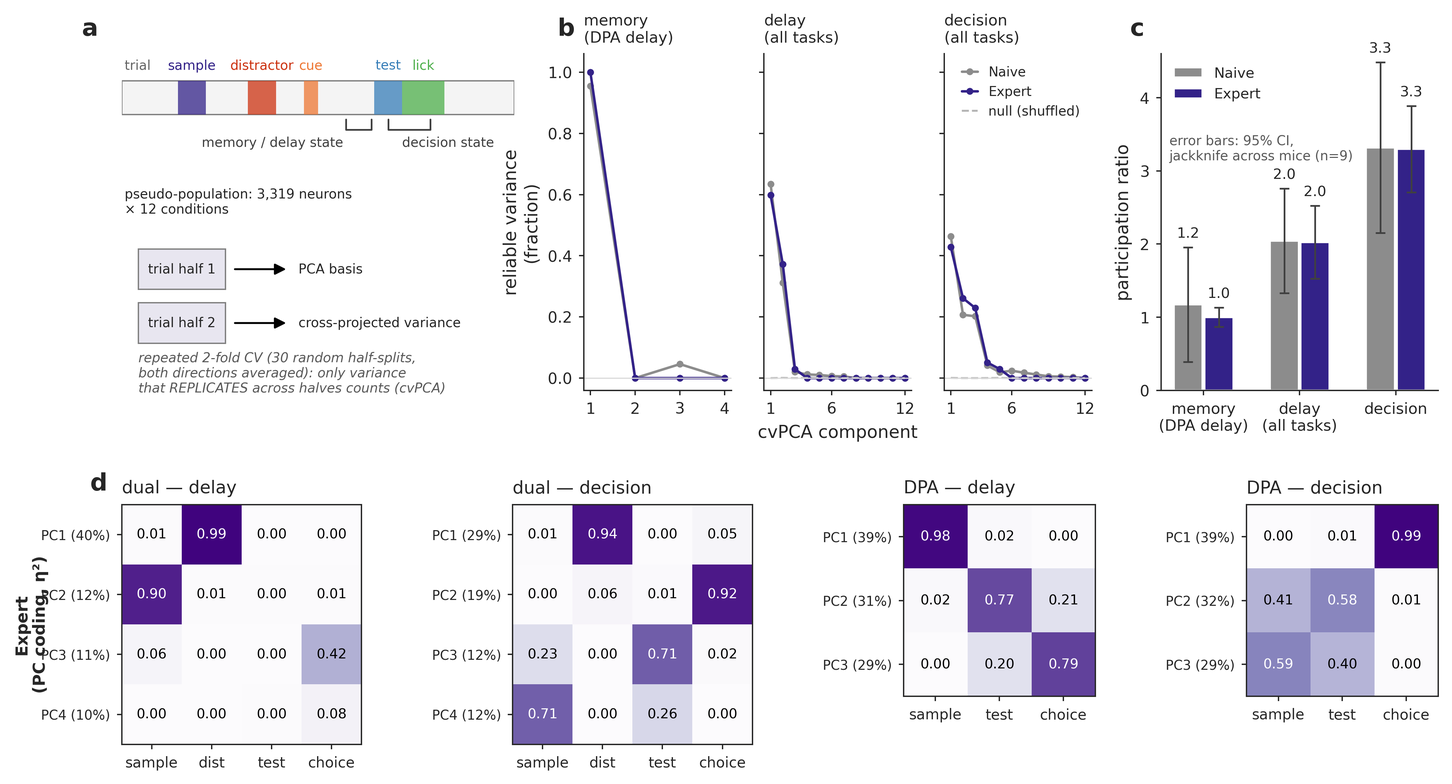
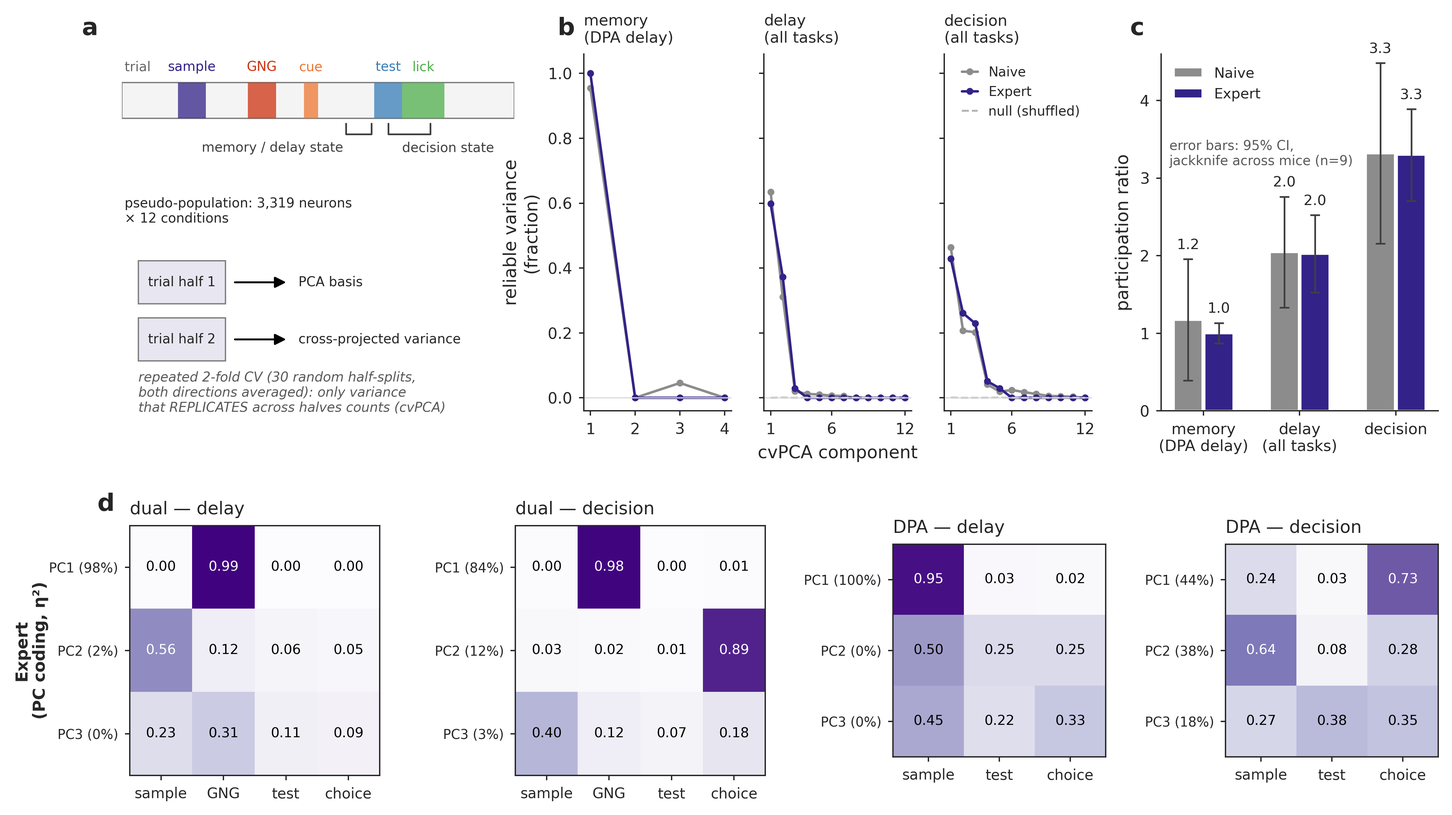
Fig 2d is cross-validated: components fitted on one trial half, eta^2 read on the other
Panel d used to PCA the condition means estimated from ALL trials, so its row
percentages were raw condition-mean variance and appeared to contradict panel b:
the DPA delay read 41/30/28% with coded-looking second and third rows, while b's
cross-validated spectrum said one axis (1.00/0/0).

New pca/exp_pceta_cv.py runs the same half-splits as b (30 x both directions),
fits the components on one half and measures BOTH the replicating variance and
the eta^2 on the other, merging pceta_cv / cm_var_cv / pceta_cv_factors /
pceta_cv_permfrac into all 22 FITDATA entries of results.pkl. panelD_mats
prefers those keys and falls back to the raw ones.

Row labels are now panel b's reliable fractions (DPA md 100/0/0, DPA decision
44/38/18, dual md 92/7/0, dual decision 84/12/3); the reliable rows keep their
coding (sample .94; GNG .99; choice .73 DPA / .89 dual; sample .81 dual md) and
the non-replicating rows go flat at the 1/3 chance level.

Trap found and fixed: the DPA decision components sit at 0.44/0.38, so they swap
order between splits and unmatched averaging blended the choice row into the
sample row (0.67 choice + 0.30 sample against 0.57 sample + 0.35 choice). Each
split's components are now matched to the full-data axes by maximum |cosine|
(Hungarian) before averaging; the reference only labels components and enters
neither the fit nor the measurement.

Also: _rank_b's docstring was quoting pre-flip margins and claiming dual-decision
[…]

diff --git a/pca/exp_pceta_cv.py b/pca/exp_pceta_cv.py
@@ -1,0 +1,162 @@
+"""exp_pceta_cv.py — CROSS-VALIDATED version of Fig 2d (Leon 2026-09-09: "we should cross validate panel d").
+
+Panel d used to PCA the condition means computed from ALL trials, so its per-PC percentages counted the
+noise in those means: at the DPA mid-delay it reported PC1 39% / PC2 31% / PC3 29% — three comparable axes —
+while the cross-validated spectrum of panel b said one (1.00 / 0 / 0). Same data, different question.
+
+Here each component is FIT ON ONE TRIAL HALF and MEASURED ON THE OTHER, exactly like the panel-b spectrum:
+
+    for each of NSPLIT random half-splits, and in both directions:
+        S1, S2  = z-scored, centred condition means of the two disjoint halves
+        Vt      = right singular vectors of S1            (the basis comes from half 1 only)
+        cross-variance_k = <S1 Vt_k , S2 Vt_k>            (noise does not replicate → ~0)
+        eta2_k          = eta² of the HELD-OUT scores S2 Vt_k against the design contrasts
+
+COMPONENT MATCHING (essential — without it the DPA decision matrix is mush). Splits are averaged
+componentwise, so the k-th component must mean the same thing in every split. When two components
+carry nearly equal variance their ORDER is arbitrary: the DPA decision spectrum is 0.41 / 0.40 / 0.18,
+so its first two swap from split to split, and naive averaging blends the choice PC with the sample PC
+(PC1 came out 0.67 choice + 0.30 sample, PC2 0.57 sample + 0.35 choice — the two raw rows, mixed in
+proportion to how often they swapped). Each split's components are therefore matched to a fixed
+reference basis (the full-data PCs of the same normalised condition means) by maximum |cosine|,
+with a Hungarian assignment, BEFORE accumulating. The reference only labels the components; it
+never enters the fit or the measurement, both of which stay strictly out-of-sample. Matching is a
+permutation of the same top-k set, so the variance fractions are unchanged as a multiset and still
+reproduce panel b.
+
+Averaged over splits and directions. Writes into each FITDATA entry of results.pkl:
+    pceta_cv   (nk × factors)  cross-validated coding matrix, the panel-d cells
+    cm_var_cv  (nk,)           cross-validated variance fractions, the panel-d row labels
+The uncross-validated `pceta` / `cm_var` stay in place so nothing that reads them breaks.
+
+Run from pca/:  /home/leon/mambaforge/envs/dual/bin/python exp_pceta_cv.py
+"""
+import os
+import pickle
+import sys
+
+import numpy as np
+from scipy.optimize import linear_sum_assignment
+
+sys.path.insert(0, '/home/leon/dual/')
+os.chdir(os.path.dirname(os.path.abspath(__file__)))
+
+NSPLIT = 30
+RES = 'figures/pseudo/dimensionality/results.pkl'
+AWPKL = 'figures/pseudo/dimensionality/fits_inputs.pkl'
+STAGES = ['Naive', 'Expert']
+TASKS3 = ['DPA', 'DualGo', 'DualNoGo']
+ALL12 = [(t, s, te) for t in TASKS3 for s in (0, 1) for te in (0, 1)]
+TASKSETS = {'DPA': [c for c in ALL12 if c[0] == 'DPA'],
+            'dual': [c for c in ALL12 if c[0] != 'DPA'],
+            'all': ALL12}
+
+_c = pickle.load(open(AWPKL, 'rb'))
+AW, VALIDIX, N = _c['AW'], _c['VALIDIX'], _c['N']
+MOUSE, LEARN, LAS, TSK, SAMP, TESTO, PERF = (_c['L'][k] for k in
+                                             ['MOUSE', 'LEARN', 'LAS', 'TSK', 'SAMP', 'TESTO', 'PERF'])
+MICE = sorted({m for m, _ in VALIDIX})
+
+
+def contrasts(conds):
+    """orthogonal ±1 factor contrasts — identical to exp_dimensionality_fits.contrasts."""
+    s = np.array([c[1] for c in conds], float); te = np.array([c[2] for c in conds], float)
+    tk = np.array([TASKS3.index(c[0]) for c in conds])
+    C = {'sample': 2 * s - 1, 'test': 2 * te - 1, 'choice': 2 * (s == te) - 1}
+    has_dual = bool(np.any((tk == 1) | (tk == 2))); has_dpa = bool(np.any(tk == 0))
+    order = ['sample']
+    if has_dual:
+        C['gng'] = np.select([tk == 1, tk == 2], [1.0, -1.0], default=0.0); order.append('gng')
+    order += ['test', 'choice']
+    if has_dpa and has_dual:
+        C['tasks'] = np.select([tk == 0, tk == 1, tk == 2], [2.0, -1.0, -1.0]); order.append('tasks')
+    return C, order
+
+
+def eta2(zk, C, order):
+    zc = zk - zk.mean(); sst = (zc ** 2).sum() + 1e-12
+    return [(C[f] @ zc) ** 2 / ((C[f] @ C[f]) * sst) for f in order]
+
+
+def neuron_scale(stage, M):
+    sd = np.ones(N)
+    for m in MICE:
+        val = VALIDIX[(m, stage)]; tr = np.where((MOUSE == m) & (LEARN == stage) & (LAS == 0) & (PERF == 1))[0]
+        if len(tr):
+            s = np.nanstd(M[np.ix_(tr, val)], axis=0)
+            sd[val] = np.where(np.isfinite(s) & (s > 1e-6), s, 1.0)
+    return sd
+
+
+def split_means(stage, conds, M, rng):
+    R1 = np.zeros((len(conds), N)); R2 = np.zeros((len(conds), N))
+    for m in MICE:
+        val = VALIDIX[(m, stage)]
+        for ci, (t, s, te) in enumerate(conds):
+            idx = np.where((MOUSE == m) & (LEARN == stage) & (LAS == 0) & (PERF == 1)
+                           & (TSK == t) & (SAMP == s) & (TESTO == te))[0]
+            if len(idx) < 2:
+                continue
+            p = rng.permutation(idx); h = len(p) // 2
+            R1[ci][val] = np.nanmean(M[np.ix_(p[:h], val)], 0); R2[ci][val] = np.nanmean(M[np.ix_(p[h:], val)], 0)
+    return R1, R2
+
+
+def ref_basis(stage, conds, M, nk):
+    """LABELLING basis only: the full-data PCs of the same normalised condition means."""
+    sd = neuron_scale(stage, M)
+    R = np.zeros((len(conds), N))
+    for m in MICE:
+        val = VALIDIX[(m, stage)]
+        for ci, (t, s, te) in enumerate(conds):
+            idx = np.where((MOUSE == m) & (LEARN == stage) & (LAS == 0) & (PERF == 1)
+                           & (TSK == t) & (SAMP == s) & (TESTO == te))[0]
+            if len(idx):
+                R[ci][val] = np.nanmean(M[np.ix_(idx, val)], 0)
+    S = R / sd[None, :]; S = S - S.mean(0, keepdims=True)
+    return np.linalg.svd(S, full_matrices=False)[2][:nk]
+
+
+def cv_pc(stage, conds, M, C, order, nk):
+    """cross-validated (variance fraction, eta² matrix): basis from one half, both read on the other,
+    components matched to a fixed reference so that averaging across splits compares like with like."""
+    sd = neuron_scale(stage, M); rng = np.random.RandomState(0)
+    Vref = ref_basis(stage, conds, M, nk)
+    var = np.zeros(nk); eta = np.zeros((nk, len(order))); n = 0; nperm = 0
+    for _ in range(NSPLIT):
+        R1, R2 = split_means(stage, conds, M, rng)
+        S1, S2 = R1 / sd[None, :], R2 / sd[None, :]
+        S1 = S1 - S1.mean(0, keepdims=True); S2 = S2 - S2.mean(0, keepdims=True)
+        for A, B in ((S1, S2), (S2, S1)):                       # both directions, as in cvpca_spectrum
+            Vt = np.linalg.svd(A, full_matrices=False)[2][:nk]
+            ri, ci = linear_sum_assignment(-np.abs(Vref @ Vt.T))  # ref slot ri <- fitted component ci
+            nperm += int(not np.array_equal(ci, np.arange(nk)))
+            ZA, ZB = A @ Vt.T, B @ Vt.T                          # scores of the fit half and the held-out half
+            var[ri] += (ZA[:, ci] * ZB[:, ci]).sum(0)            # replicating variance per component
+            for r, c in zip(ri, ci):
+                eta[r] += eta2(ZB[:, c], C, order)               # coding measured on the HELD-OUT half
+            n += 1
+    pos = np.clip(var / n, 0, None)
+    return pos / (pos.sum() + 1e-12), eta / n, nperm / n
+
+
+d = pickle.load(open(RES, 'rb'))
+F = d['FITDATA']
+print(f'{"set":5s}{"window":10s}{"stage":7s}{"raw %":24s}{"cross-validated %":24s}{"perm":5s}  top factor per PC')
+for tsname, conds in TASKSETS.items():
+    C, order = contrasts(conds); nk = len(conds) - 1
+    for wn, M in AW.items():
+        for stage in STAGES:
+            key = (tsname, wn, stage)
+            if key not in F:
+                continue
+            cmv, pce, fperm = cv_pc(stage, conds, M, C, order, nk)
+            F[key]['cm_var_cv'] = cmv; F[key]['pceta_cv'] = pce; F[key]['pceta_cv_factors'] = order
+            F[key]['pceta_cv_permfrac'] = fperm
+            if wn in ('md', 'decision') and stage == 'Expert' and tsname != 'all':
+                raw = np.asarray(F[key]['cm_var'], float)[:3]
+                top = [f'{order[int(np.argmax(pce[k]))]} {pce[k].max():.2f}' for k in range(min(3, nk))]
+                print(f'{tsname:5s}{wn:10s}{stage:7s}{str([f"{v:.0%}" for v in raw]):24s}'
+                      f'{str([f"{v:.0%}" for v in cmv[:3]]):24s}{fperm:5.2f}  {top}')
+pickle.dump(d, open(RES, 'wb'))
+print(f'\nmerged pceta_cv / cm_var_cv into {RES} ({NSPLIT} splits × 2 directions)')

diff --git a/pca/fig_dimensionality_main.py b/pca/fig_dimensionality_main.py
@@ -9,9 +9,12 @@ DPA vs dual (x) mid-delay vs decision. Three claims:
      existence metric (Kobak et al. 2016), replacing the variance-weighted PR bars. Each stage is
      drawn against ITS OWN null (Expert solid, Naive dashed); the dist-cross verdict uses the
      1000-draw permutation null (2026-08-30; at 100 draws the margin was seed-flippable).
-  3. D eta^2 PC-coding matrices (Expert; DPA then dual, PC1-4 both) + the boxed 'dist x' cross-decode
+  3. D CROSS-VALIDATED eta^2 PC-coding matrices (Expert; DPA then dual) + the boxed 'dist x' cross-decode
      column on DPA: the axes ARE the variables; the DPA geometry carries the GNG code only
-     weakly. Naive overlaid in B/C; Naive matrices identical (Extended Data). Row fade rank =
+     weakly. Since 2026-09-09 the basis is fit on one trial half and the eta^2 AND the row-label
+     percentages are read on the other (exp_pceta_cv.py -> pceta_cv / cm_var_cv), so the labels ARE
+     panel b's reliable fractions and non-replicating rows go flat (~1/nfactor) instead of looking
+     coded. Naive overlaid in B/C; Naive matrices identical (Extended Data). Row fade rank =
      cumulative-95%-of-reliable-variance rule (see _rank_b). NB the dual eta^2 rows do NOT sum to 1
      exactly (4 of 7 centred contrasts shown; dual-md PC2 leaks ~6% to unshown interactions) —
      caption must not claim they do. Display names are canonical sample/dist/test/choice ('gng'
@@ -323,10 +326,14 @@ def _rank_b(ts, wn):
     passed by lo=0.012 vs the 1% constant, and switching the CI multiplier from z=1.96 to the
     t8=2.306 appropriate for n=9 flipped dual-md to rank 1 and collapsed DPA-decision 3->1 (its
     comp2 CI spans 0 while comp3 is solidly reliable — stop-at-first-failure). The cumulative rule
-    reproduces the same displayed ranks (DPA-md 1, DPA-dec 3, dual-md 2, dual-dec 3) with the CI
-    multiplier out of the decision entirely; margins: dual-md cum1=0.924 < 0.95 < cum2=0.995,
-    dual-dec cum2=0.909 < 0.95 < cum3=0.961 (the 0.961 is the tightest at 0.011 — consistent with
-    the drawn "~3 reliable axes" hedge)."""
+    keeps the CI multiplier out of the decision entirely.
+
+    RANKS UNDER THE CANONICAL AXES (re-measured 2026-09-09, post-flip; the pre-flip numbers this
+    docstring used to quote were stale): DPA-md 1, DPA-dec 3, dual-md 2, dual-dec 2. Margins:
+    dual-md cum1=0.924 < 0.95 < cum2=0.995, dual-dec cum1=0.837 < 0.95 < cum2=0.954 (the tightest,
+    0.004). The panel-b annotation uses the STRICTER CI rule instead (count of components whose
+    jackknife lower bound clears the shuffle null: DPA-dec 3, dual-dec 2 — same on the decision
+    rows it annotates; the two rules differ only on dual-md, 2 here vs 1 there)."""
     S = RES['SPEC_JK'][(ts, wn, 'Expert')]
     frac = np.clip(np.asarray(S['frac']), 0, None)
     null = np.clip(np.asarray(RES['SPEC_NULL'][(ts, wn)]), 0, None)
@@ -352,7 +359,15 @@ def panelD_mats(fig, gsD):
         F = FITDATA[(ts, wn, 'Expert')]
         nk = 3                                       # PC1-3 only (Leon 2026-09-08: PC4 removed — DPA PC4 is
                                                      # the degenerate 0% direction, dual PC4 sits below the rank)
-        M = np.asarray(F['pceta'])[:nk]; FO = list(F['factors']); cmv = np.asarray(F['cm_var'])[:nk]
+        # CROSS-VALIDATED cells + row labels (Leon 2026-09-09: "we should cross validate panel d").
+        # exp_pceta_cv.py fits the PC basis on one trial half and measures BOTH the variance and the
+        # eta^2 on the held-out half (30 splits x 2 directions), so the percentages are panel b's
+        # reliable fractions and a row that does not replicate goes flat instead of looking coded.
+        # The raw keys stay in the pickle as the fallback.
+        _cv = 'pceta_cv' in F and 'cm_var_cv' in F
+        M = np.asarray(F['pceta_cv' if _cv else 'pceta'])[:nk]
+        FO = list(F['pceta_cv_factors'] if _cv else F['factors'])
+        cmv = np.asarray(F['cm_var_cv' if _cv else 'cm_var'])[:nk]
         rk = _rank_b(ts, wn) if CDEC else nk
         if DCROSS and ts == 'DPA':                  # dist CROSS-decode column (DPA_GNG, above-chance frac)
             g = np.asarray(RES['DPA_GNG'][(wn, 'Expert')])[:nk]
@@ -616,9 +631,15 @@ if CDEC:
         'change the dimensionality.',
         'c, Each axis carries its variable when, and only when, the task engages it. Decoding accuracy along each demixed coding axis on withheld pseudo-trials (expert, bars; naïve, open circles), against the expert label-shuffle null (95th percentile of a null matched to the plotted statistic, short line). The dagger marks the single exception, an anticipatory choice signal in the naïve mid-delay state (0.66 against its own null) that disappears with learning.',
         'd, The principal components are the task variables. η² of each condition-mean PC against the '
-        'design contrasts (rows, PCs labeled with their percentage of condition-mean variance; a '
-        'cell near 1 means that the PC codes that variable alone). The geometry is factorized rather '
-        'than mixed. Rows beyond the reliable rank of panel b are faded; dual rows show 4 of the 7 centered contrasts.',
+        'design contrasts, cross-validated exactly as in b: the components are fitted on one half of '
+        'the trials and both the η² and the row percentages are measured on the other (30 random '
+        'half-splits, both directions averaged; components are matched to the full-data axes before '
+        'averaging, because two components of nearly equal size otherwise change places from split to '
+        'split and their rows blend). Row labels therefore give each matched component’s share of the '
+        'reliable variance of b, and a cell near 1 means that the PC codes that variable alone. The '
+        'geometry is factorized rather than mixed. Rows beyond the reliable rank of b are faded, and '
+        'they are also flat by construction, since a component that does not replicate carries no '
+        'coding on held-out trials; dual rows show 4 of the 7 centered contrasts.',
         'e, Cross-task transfer of the decoders (expert; sample at mid-delay, test and choice at decision, the states of b–d; each decoder is trained and tested in the same window). Cells give the transferred fraction of decodable signal, (cross − 0.5)/(within − 0.5); the within-task accuracies are 0.94/0.78/0.80 for the sample, 0.68/0.58/0.56 for the test and 0.86/0.75/0.81 for the choice (DPA/Go/NoGo); hatched cells have a ratio above 1 (cross above within) and are not read as fractions. The choice transfers largely (0.41–0.97), and the test completely (0.53 and above; four of six cells exceed the within-task level, whose accuracies are low). The sample transfer is partial and asymmetric (0.27–0.90): decoders trained on Go or NoGo trials read the DPA trials well (0.76–0.80), whereas the DPA-trained decoder reads the dual trials less well (0.27–0.44), consistent with the shift of the sample readout within the plane after the Go/NoGo odor (Fig. 3a; Extended Data Fig. 6e). Below each matrix is the parallelism score (PS), the geometric twin of the transfer test (sample 0.28, test 0.06, choice 0.16; label-shuffle 95th percentiles 0.04–0.05).',
         'f, The shared frame precedes dual task learning. Per-mouse mean cross-task accuracy (same windows as e), naïve against expert; points on the unity line indicate no change. The sample is unchanged (Δ = 0.00, 95% CI [−0.05, +0.05], Wilcoxon p = 1.00, n = 9), and so are the test (+0.01, [−0.01, +0.03], p = .43) and the choice (+0.01, [−0.03, +0.06], p = .82); the fraction transferred is unchanged (per-mouse medians 0.41–0.88, all p ≥ .65).',
         'g, The factorization is visible neuron by neuron. Per-neuron discriminability (d′, within '

diff --git a/make_ed_figures.py b/make_ed_figures.py
@@ -194,9 +194,10 @@ build('ed_fig3', [
     'open and excluded from the test).',
     'd, The full per-fit grid for the all-tasks set (cvPCA scree, cross-validated participation '
     'ratio and shattering per window, and the per-PC η² coding matrices, Naïve and '
-    'Expert). Condition-mean PCs beyond the reliable ones carry apparent η² for '
-    'variables undetermined at that point in the trial — sampling noise stripped by cvPCA, '
-    'not anticipatory coding (the gotcha flagged in Fig. 2d). e, Window robustness: the same DPA '
+    'Expert). These matrices are NOT cross-validated, and are kept as the counterpart of main '
+    'Fig. 2d, which cross-validates the same decomposition: condition-mean PCs beyond the reliable '
+    'ones carry apparent η² for variables undetermined at that point in the trial — sampling '
+    'noise, not anticipatory coding — and in Fig. 2d those same rows are flat. e, Window robustness: the same DPA '
     'fit on full-delay / test windows — the DPA-delay participation ratio stays 1.0–1.1. '
     'f, The Go/NoGo cross-decode column from the DPA subspace, per window: the GNG code is '
     'partially decodable from the DPA geometry (close to, but not fully, orthogonal).',

diff --git a/docs/paper/results_draft.md b/docs/paper/results_draft.md
@@ -1,5 +1,7 @@
 # Compositional learning by geometric editing — main paper (draft v12)
 
+> **v12.27 (2026-09-09): Fig. 2d IS NOW CROSS-VALIDATED** (Leon: "ok then we should cross validate panel d"). Panel d used to PCA the condition means estimated from ALL the trials, so its row percentages were raw condition-mean variance and looked like they contradicted panel b: the DPA delay read 41/30/28% with coded-looking second and third rows, while the cross-validated spectrum of b said one axis (1.00/0/0). New `pca/exp_pceta_cv.py` fits the components on one trial half and measures BOTH the variance and the η² on the other (30 half-splits × 2 directions), merging `pceta_cv` / `cm_var_cv` into `results.pkl`; `panelD_mats` prefers them and falls back to the raw keys. The row labels are now panel b's reliable fractions (DPA delay 100/0/0, DPA decision 44/38/18, dual delay 92/7/0, dual decision 84/12/3) and the reliable rows keep their coding (sample 0.94; GNG 0.99; choice 0.73 DPA / 0.89 dual; sample 0.81 dual delay) while the non-replicating rows go flat at the 1/3 chance level. One trap found and fixed: the DPA decision spectrum is 0.44/0.38, so those two components swapped from split to split and naive averaging blended the choice row with the sample row (0.67 choice + 0.30 sample against 0.57 sample + 0.35 choice); each split's components are now matched to the full-data axes by maximum |cosine| (Hungarian) before averaging, which is a relabelling only. §2, Methods and the Fig. 2d legend rewritten; ED 3d keeps the uncross-validated matrices and is now labelled as the demonstration of the artifact.
+
 > **v12.26 (2026-09-09): draft↔figure alignment audit.** Re-ran all five mains and checked every printed statistic against the text and legends. Everything matched except three items, now fixed: (i) §2's decision-period reliable-variance fractions were pre-flip (0.66/0.17/0.17 and 0.61/0.30/0.05) — they are 0.41/0.40/0.20 on DPA trials and 0.84/0.12/0.02 on Go and NoGo trials; (ii) §3's pooled choice × GNG cosine read 0.42, the figure prints 0.43; (iii) Fig. 2b's "≈3 reliable axes" was HARDCODED on both decision columns — it is now COUNTED from the data (an axis is reliable when its jackknife interval clears the shuffle null), which gives 3 on DPA trials and 2 on Go and NoGo trials, and §2 plus the legend now say that instead of "about three".
 
 > **v12.25 (2026-09-09): the Go/NoGo trials are no longer called "distractors"** (Leon: "stop calling go and nogo distractors — gng instead of dist, go/nogo instead of distractor"). Prose now says the **Go/NoGo odor / Go/NoGo task**, and **GNG** for the code, axis and compact labels; every figure label that read `dist` reads **GNG**, and the trial-timeline event in Figs 2a/3a is **GNG**. Cache keys are deliberately untouched (`dist` in PM_PLANE/E_VARS, `gng` in the dPCA and CCGD caches) — the scripts map key → label at draw time, so no pickle is invalidated. Three uses of "distractor" are kept on purpose: the two sentences about distractors in the CITED literature (Jacob 2014; Parthasarathy 2017) and the Jacob 2014 reference title. The banners below are a changelog and keep their original wording. Fig. 1a's first slot is now a drawn head-fixed-mouse portrait (`overlaps/mouse_cartoon.py`), replacing the traced line-art raster.
@@ -544,10 +546,16 @@ level of 0.5 (Fig. 2c). In the delay only the sample could be read out (0.89 on 
 test odor and the choice stayed at chance until the test arrived, when all of them became
 decodable (choice 0.81–0.85, test 0.60–0.62). The principal components were themselves the task
 variables, each loading on a single factor of the design (Fig. 2d; η², the share of a
-component's condition-mean variance explained by one factor, where 1 means the component codes
-that factor alone). The memory line was the sample axis (η² = 0.93). In the delay of Go and
-NoGo trials the state held one large GNG axis (η² = 0.98, 37% of condition-mean
-variance) beside a smaller sample axis (0.91, 14%), and the decision period added choice and test axes (0.84, 0.76), with some mixing of sample, test and choice on its smaller components. The
+component's held-out variance explained by one factor, where 1 means the component codes that
+factor alone; the components are fitted on one half of the trials and both their size and their
+coding are read on the other, as in Fig. 2b). The memory line was the sample axis (η² = 0.94). In
+the delay of Go and NoGo trials the state held one large GNG axis (η² = 0.99, 92% of the reliable
+variance) beside a smaller sample axis (0.81, 7%), and the decision period added a choice axis
+(0.73 on DPA trials, 0.89 on Go and NoGo trials) and a weaker test axis (0.38), with some mixing
+of sample, test and choice on the smallest components. Cross-validation is what makes this
+readable: on condition means estimated from all the trials the three DPA delay components look
+comparably large (41%, 30% and 28%) and the second and third look coded, whereas out of sample
+they carry no variance and no coding, leaving the single sample line. The
 memory axis is small but reliable, and it lies close to orthogonal to the larger GNG and
 choice axes that it has to withstand.
 
@@ -930,16 +938,26 @@ quoted in the plane section cross-decodes Go vs NoGo from held-out dual pseudo-t
 condition, disjoint train/test halves, 8 repeats) projected into the DPA-state subspace — the
 top-3 PCs of the DPA condition means, which are estimated from all DPA trials (the held-out
 split applies to the decoded dual trials) — with LDA on the 3-D projection and a 1,000-shuffle
-within-mouse label-permutation null. For Fig. 2d, each condition-mean PC's across-condition
-variance was decomposed as η² onto mutually orthogonal factor contrasts (sample, GNG,
-test, choice; plus a task contrast in the 12-condition set); the balanced design makes the
-shares exhaustive (chance 1/3 per contrast, Beta(½,1) under no signal — large η² on unreliable
-components is expected and is not evidence of coding, which is why decodability is tested
-directly in Fig. 2c). PCs beyond the reliable rank are faded; the rank is the number of leading
-components that individually exceed twice the shuffle floor, accumulated until 95% of the
-reliable variance is reached (DPA mid-delay 1, dual mid-delay 2, both decisions 3). Apparent
-delay-period test/choice η² in DPA cannot be anticipatory coding — the test odor is drawn
-independently of the sample — and fails cross-validation; it is condition-mean sampling noise.
+within-mouse label-permutation null. For Fig. 2d the η² decomposition is cross-validated on the
+same half-splits as the spectra of Fig. 2b (`pca/exp_pceta_cv.py`). In each of 30 random
+half-splits, and in both directions, the principal components were computed from the condition
+means of one half of the trials and the other half was projected onto them; each component's
+replicating variance and its η² onto mutually orthogonal factor contrasts (sample, GNG, test,
+choice; plus a task contrast in the 12-condition set) were both measured on that held-out
+projection. Because two components of nearly equal size change places from split to split, each
+split's components were matched to the full-data components by maximum absolute cosine (Hungarian
+assignment) before averaging; the matching only labels the components and enters neither the fit
+nor the measurement. The balanced design makes the η² shares exhaustive (chance 1/3 per contrast,
+Beta(½,1) under no signal). The row labels give each matched component's share of the reliable
+variance, so they agree with Fig. 2b. Components beyond the reliable rank are faded; the rank is
+the number of leading components that individually exceed twice the shuffle floor, accumulated
+until 95% of the reliable variance is reached (DPA mid-delay 1, dual mid-delay 2, DPA decision 3,
+dual decision 2). Cross-validation removes an artifact that the uncross-validated matrices show
+plainly: on condition means estimated from all the trials, delay-period test and choice η² in DPA
+reach 0.64 and 0.68 on the second and third components, which cannot be anticipatory coding
+because the test odor is drawn independently of the sample. Those components carry no variance out
+of sample and their η² falls back to the 1/3 chance level. The uncross-validated matrices are kept
+in Extended Data Fig. 3d as the demonstration.
 
 ### Generalization, parallelism, abstraction (Figs 2e–g, ED)
 
@@ -1116,10 +1134,15 @@ statistic, short line). The dagger marks the single exception, an anticipatory c
 the naïve mid-delay state (0.66 against its own null) that disappears with learning.
 
 d, The principal components are the task variables. η² of each condition-mean PC against the
-design contrasts (rows, PCs labeled with their percentage of condition-mean variance; a cell
-near 1 means that the PC codes that variable alone). The geometry is factorized rather than
-mixed. Rows beyond the reliable rank of panel b are faded; dual rows show 4 of the 7 centered
-contrasts.
+design contrasts, cross-validated exactly as in b: the components are fitted on one half of the
+trials and both the η² and the row percentages are measured on the other (30 random half-splits,
+both directions averaged; components are matched to the full-data axes before averaging, because
+two components of nearly equal size otherwise change places from split to split and their rows
+blend). Row labels therefore give each matched component's share of the reliable variance of b,
+and a cell near 1 means that the PC codes that variable alone. The geometry is factorized rather
+than mixed. Rows beyond the reliable rank of b are faded, and they are also flat by construction,
+since a component that does not replicate carries no coding on held-out trials; dual rows show 4
+of the 7 centered contrasts.
 
 e, Cross-task transfer of the decoders (expert; sample at mid-delay, test and choice at
 decision, the states of b–d; each decoder is trained and tested in the same window). Cells give
@@ -1343,9 +1366,10 @@ estimator) — top-1 reliable fraction, memory vs decision window, per stage; no
 (reliable-total < 5) drawn open and excluded from the test; medians 0.90/0.93 at mid-delay, expert
 memory-vs-decision Wilcoxon p = .047 (6/7), naïve directional p = .22; (d) the full per-fit grid
 for the all-tasks set (`dim_all.png`): cvPCA scree, cross-validated PR and shattering per window,
-and the per-PC η² coding matrices — condition-mean PCs beyond the reliable ones carry apparent η²
-for variables undetermined at that point (sampling noise stripped by cvPCA, not anticipatory
-coding: the gotcha flagged in Fig. 2d's footnote); (e) window robustness (`dim_DPA_altwin.png`) —
+and the per-PC η² coding matrices, UNCROSS-VALIDATED — condition-mean PCs beyond the reliable
+ones carry apparent η² for variables undetermined at that point (sampling noise, not anticipatory
+coding). Since 2026-09-09 this panel is the deliberate counterpart of main Fig. 2d, which
+cross-validates the same decomposition and leaves those rows flat; (e) window robustness (`dim_DPA_altwin.png`) —
 on full-delay / test windows the DPA-delay PR stays 1.0–1.1; (f) the Go/NoGo cross-decode column
 from the DPA subspace, per window (`dim_DPA_gng.png`; main Fig. 2c/d shows the clean mid-delay
 value 0.61; the late-delay ~0.7 figure is consummatory-inflated — the DPA geometry is close to,

diff --git a/docs/pca/dimensionality.md b/docs/pca/dimensionality.md
@@ -150,6 +150,16 @@ pseudo-trials/cond → StandardScaler+PCA(30) fit on train → LDA), at the post
 across-condition variance decomposed onto orthogonal factor contrasts (sample / gng / test / choice
 [/tasks]) — balanced 2×2×3 design so the η² are exhaustive per PC.
 
+**CROSS-VALIDATED since 2026-09-09** (Leon: "ok then we should cross validate panel d"). The panel-d
+matrices and their row percentages now come from `pca/exp_pceta_cv.py`, not from the all-trial condition
+means: 30 random half-splits × both directions, components fitted on one half, variance AND η² measured
+on the other, components matched to the full-data axes by max |cos| (Hungarian) before averaging.
+Merged into `results.pkl` as `pceta_cv` / `cm_var_cv` / `pceta_cv_factors` / `pceta_cv_permfrac`;
+`panelD_mats` prefers them and falls back to the raw `pceta` / `cm_var`. The raw keys stay for the ED
+grid. WHY: panel d's raw percentages counted noise (DPA md 41/30/28%) and looked like they contradicted
+panel b's cross-validated 1.00/0/0. The matching is not optional — DPA-decision components 1 and 2 sit
+at 0.44/0.38 and swap between splits, and unmatched averaging blended the choice row into the sample row.
+
 ## Settled numbers (results.pkl, verified 2026-08-10)
 | quantity | Naive | Expert |
 |---|---|---|
@@ -158,12 +168,16 @@ across-condition variance decomposed onto orthogonal factor contrasts (sample / 
 | **DPA-delay PR (memory)** | 1.11 [1.00, 1.76] | **1.00 [1.00, 1.47]** |
 | shattering (462 dich.) | 0.687 [.671, .698] | 0.697 [.688, .711] (null 0.50) |
 
-PC coding → **Fig 2d = the η² MATRICES, Expert row of four** (dual-delay · dual-decision · DPA-delay ·
-DPA-decision), with the message carried by the real data: dual-delay PC1 (40%) = gng .99, PC2 (12%) =
-sample .90; dual-decision PC1 = gng .94, PC2 = choice .92, PC3 = test .71, PC4 = sample .71; **DPA-delay
-PC1 = sample .98 (the 1-D memory line IS the sample axis; its PC2/PC3 η² lands on test/choice —
-undetermined at delay BY DESIGN (test drawn independently of sample), at chance in held-out decoding,
-failing cvPCA → SAMPLING NOISE, not anticipatory coding; gotcha 4 — flagged in the panel footnote)**; DPA-decision PC1 = choice .99. The FULL 2×4 grid (Naive &
+PC coding → **Fig 2d = the η² MATRICES, Expert row of four** (DPA-md · DPA-decision · dual-md ·
+dual-decision). CROSS-VALIDATED NUMBERS (2026-09-09, the ones on the current figure; row % = share of
+the RELIABLE variance, so they match panel b): DPA-md PC1 (100%) = sample .94, PC2/PC3 (0%) flat at the
+1/3 chance level; DPA-decision PC1 (44%) = choice .73, PC2 (38%) = sample .64, PC3 (18%) = test .38;
+dual-md PC1 (92%) = gng .99, PC2 (7%) = sample .81, PC3 (0%) flat; dual-decision PC1 (84%) = gng .98,
+PC2 (12%) = choice .89, PC3 (3%) flat. The corresponding RAW numbers (still in `pceta`/`cm_var`, still
+drawn in ED 3d) were DPA-md PC1 (41%) = sample .93 with PC2 = test .64 / PC3 = choice .68 — the
+sampling-noise gotcha 4, now removed by the cross-validation rather than only footnoted; DPA-decision
+PC1 (35%) = choice .84; dual-md PC1 (37%) = gng .98, PC2 (14%) = sample .91; dual-decision PC1 = gng
+.98, PC2 = choice .88, PC3 = sample .86. The FULL 2×4 grid (Naive &
 Expert, `plot_dimensionality_main.py` → `dimensionality.png`) is ED material. Design settled 2026-08-10
 after iterations: Expert/dual-only heatmaps hid the DPA/Naive evidence; the full 2×4 grid in the main
 buried the message; a derived "chips" summary panel was REJECTED (Leon: keep the matrices — show real
@@ -181,7 +195,11 @@ Everything ~stable Naive→Expert (the Naive grid shows the same one-variable-pe
 3. **DPA-delay PR ≈ 1 is partly definitional** (only the binary sample is encoded during maintenance) —
    phrase as "the memory is a line", not as an independent discovery.
 4. **Condition-mean PCs beyond ~PR are noise** — DPA-delay "PC2 = test / PC3 = choice" code FUTURE
-   variables; cvPCA strips them. Read every η² heatmap together with the PR.
+   variables; cvPCA strips them. Read every η² heatmap together with the PR. SINCE 2026-09-09 main
+   Fig 2d cross-validates the η² itself, so those rows come out flat there; the gotcha survives only in
+   the ED 3d grid (`plot_dimensionality_fits.py`), which is deliberately left uncross-validated as the
+   demonstration. When averaging split-half PCs, ALWAYS match components to a fixed reference first —
+   near-degenerate components swap order and unmatched averaging silently blends their rows.
 5. **Shattering window must be post-test (57–65)** — earlier windows leave test undecodable.
 6. **Trajectory (time-resolved) PR stays excluded** — its shuffle null retains ~46–50% of the variance
    (the condition-independent time ramp).
